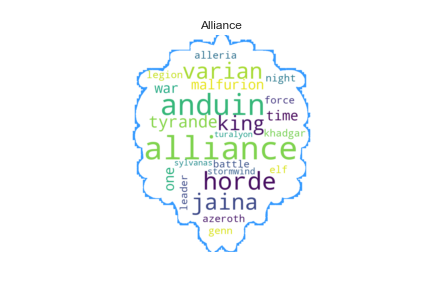
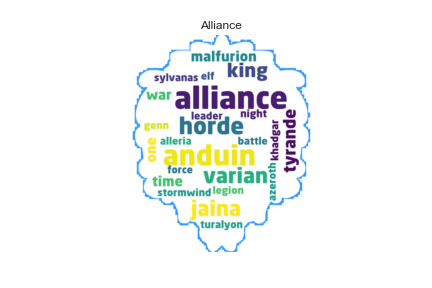
font

Changed region(s): [[0.331, 0.1562, 0.7222, 0.8438]]

diff --git a/text_helpers.py b/text_helpers.py
@@ -85,7 +85,7 @@ def disp_wordcloud(col_idx, collection, maskpath='', savepath='', background_col
         WordCloud(
             max_words=1000, margin=1, collocations=False, mask=mask,
             background_color=background_color, contour_width=contour_width, 
-            contour_color=contour_color
+            contour_color=contour_color,font_path="./NeoSans Black.otf"
         )
         .generate(collection[col_idx]['wordcloud'])
         .to_array()
